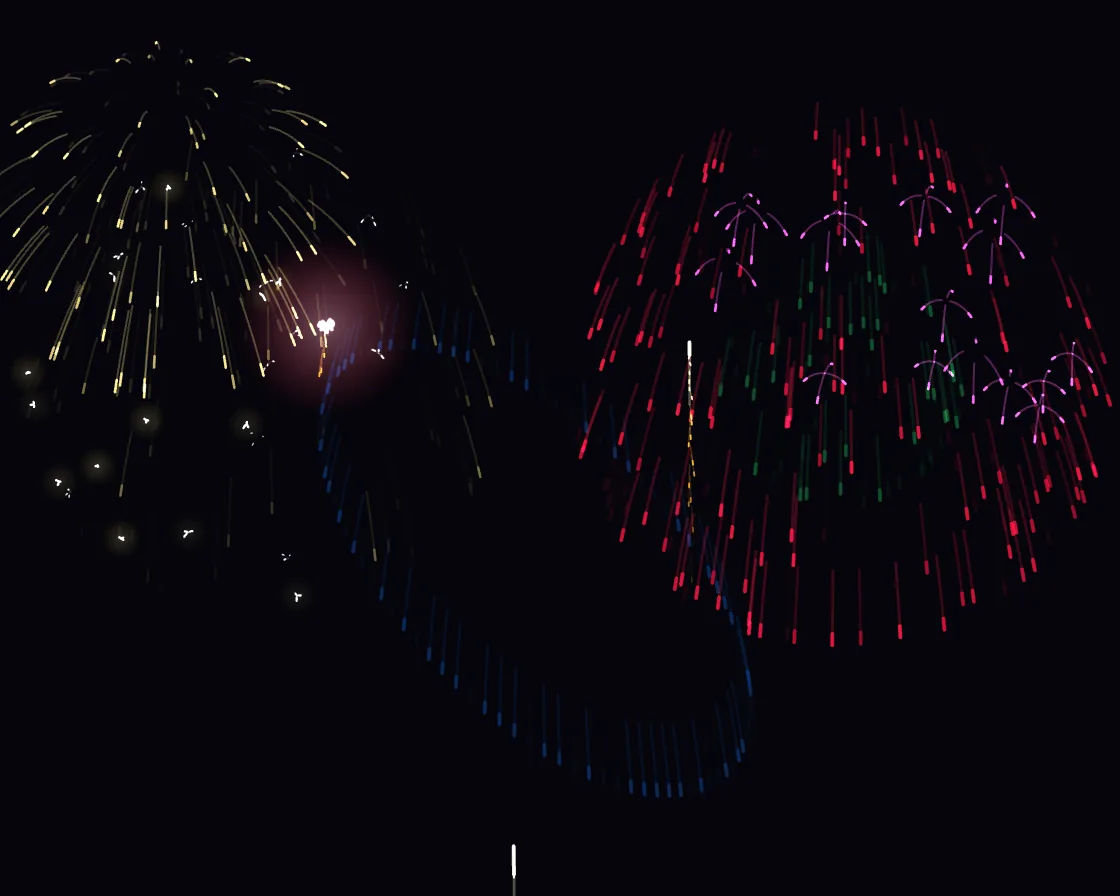
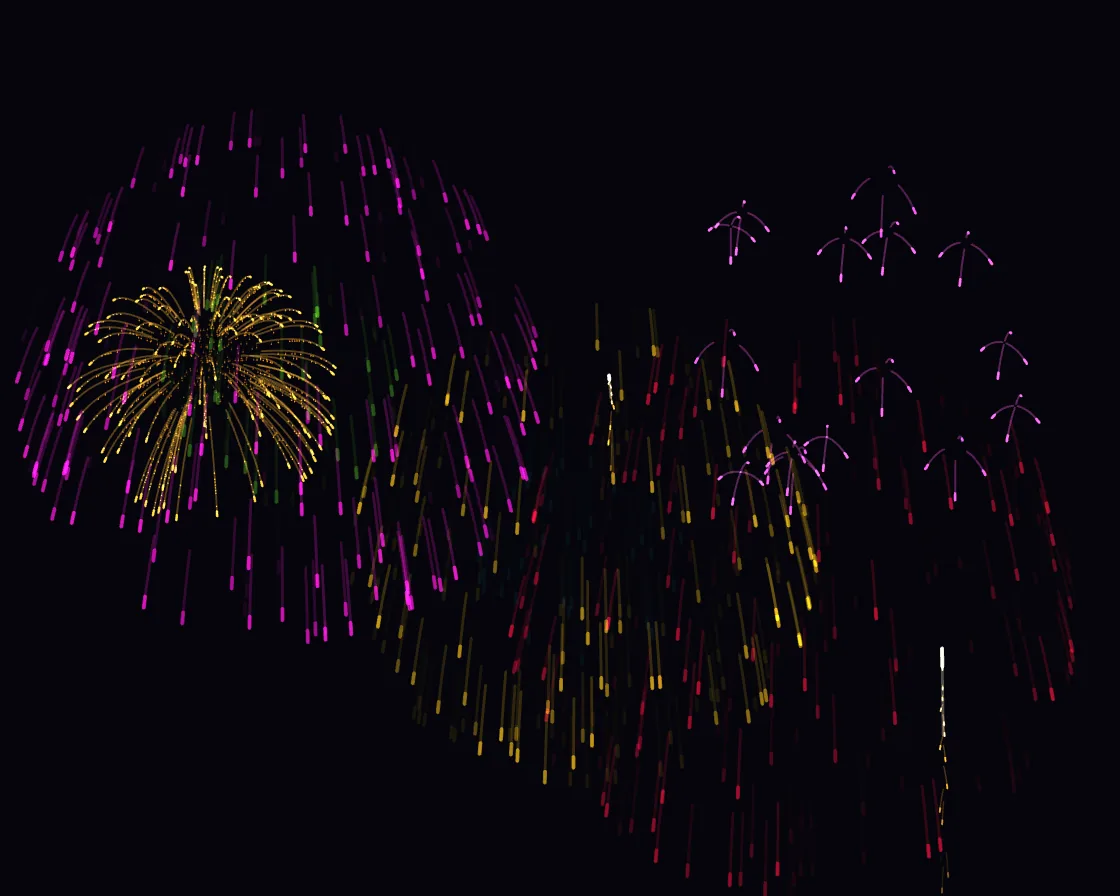
Water ripples slower and calmer (speed param); Fireworks without the ring bursts

diff --git a/anims/simulation/water-ripple.js b/anims/simulation/water-ripple.js
@@ -1,9 +1,10 @@
-// Water ripples: a height field run through the discrete wave equation on the GPU. Each step a cell becomes the average
-// of its four neighbours, times two, minus its own previous height, then loses a little energy; two textures hold
-// "now" and "before" and swap. The surface’s slope bends the view of a tiled floor beneath it (refraction), the
-// curvature focuses light into caustic brightening, and a specular term catches the crests. Move to drag a wake,
-// click for a big drop; with no pointer, rain falls and a ghost finger trails through.
-const PARAMS = { damping: 0.985, refraction: 1, rain: 1 };
+// Water ripples: a height field run through the discrete wave equation on the GPU. Each step a cell moves toward the
+// average of its four neighbours (by less than the fastest stable amount, so the rings travel slowly enough to
+// follow), minus its own previous height, then loses a little energy; two textures hold "now" and "before" and swap.
+// The surface’s slope bends the view of a tiled floor beneath it (refraction), the curvature focuses light into
+// caustic brightening, and a specular term catches the crests. Move to drag a wake, click for a big drop; with no
+// pointer, a drop falls now and then, so each ring can be followed as it spreads.
+const PARAMS = { damping: 0.985, refraction: 1, rain: 1, speed: 0.55 };
 
 export default function (stage) {
   const canvas = document.createElement('canvas');
@@ -16,11 +17,11 @@ export default function (stage) {
   in vec2 p; out vec2 uv; void main() { uv = p * .5 + .5; gl_Position = vec4(p, 0, 1); }`;
   const simFS = `#version 300 es
   precision highp float; in vec2 uv; out vec4 o;
-  uniform sampler2D S; uniform vec2 px; uniform float damp; uniform vec4 drops[8]; uniform float aspect;
+  uniform sampler2D S; uniform vec2 px; uniform float damp, K; uniform vec4 drops[8]; uniform float aspect;
   void main() {
     vec2 c = texture(S, uv).rg;
     float n = texture(S, uv + vec2(px.x, 0)).r + texture(S, uv - vec2(px.x, 0)).r + texture(S, uv + vec2(0, px.y)).r + texture(S, uv - vec2(0, px.y)).r;
-    float h = (n * .5 - c.g) * damp;
+    float h = (2. * c.r + K * (n - 4. * c.r) - c.g) * damp;   // K = .5 is the fastest stable speed
     for (int i = 0; i < 8; i++) {
       vec4 d = drops[i]; if (d.w == 0.) continue;
       vec2 q = (uv - d.xy) * vec2(aspect, 1);
@@ -106,24 +107,21 @@ export default function (stage) {
   const pl = () => { lx = -1; };
   stage.addEventListener('pointermove', pm); stage.addEventListener('pointerdown', pd); stage.addEventListener('pointerleave', pl);
 
-  let cur = 0, raf, frameN = 0, nextRain = 0, gx = -1, gy = -1; const t0 = performance.now();
+  let cur = 0, raf, frameN = 0, nextRain = 0; const t0 = performance.now();
   const dropArr = new Float32Array(32);
   function frame(now) {
     const t = (now - t0) / 1000; frameN++;
-    const idle = now - lastPointer > 2500;
-    if (t > nextRain && PARAMS.rain > 0) {
-      drop(Math.random(), Math.random(), 0.008 + Math.random() * 0.014, 0.4 + Math.random() * 0.9);
-      nextRain = t + (0.15 + Math.random() * 0.6) / PARAMS.rain;
+        if (t > nextRain && PARAMS.rain > 0 && !reduce) {
+      drop(0.12 + Math.random() * 0.76, 0.12 + Math.random() * 0.76, 0.013 + Math.random() * 0.008, 0.6 + Math.random() * 0.5);
+      nextRain = t + (0.9 + Math.random() * 1.6) / PARAMS.rain;
     }
-    if (idle && !reduce) {
-      // ghost finger: a slow figure-of-eight wake
-      const x = 0.5 + 0.33 * Math.sin(t * 0.55), y = 0.5 + 0.28 * Math.sin(t * 1.1 + 0.6);
-      if (gx >= 0) drop(x, y, 0.011, Math.min(0.4, Math.hypot(x - gx, y - gy) * 7));
-      gx = x; gy = y;
-    }
-    const steps = reduce ? (frameN % 10 === 0 ? 1 : 0) : 2;
+    // reduced motion: three drops run on for a moment and then the surface holds still, unless the pointer stirs it
+    if (reduce && frameN === 1) { drop(0.3, 0.6, 0.02, 1); drop(0.68, 0.38, 0.018, 0.9); drop(0.55, 0.72, 0.014, 0.7); }
+    const steps = reduce ? (frameN === 1 ? 70 : now - lastPointer < 3000 ? 1 : 0) : 1;
     gl.useProgram(sim); gl.viewport(0, 0, SW, SH);
-    gl.uniform2f(u(sim, 'px'), 1 / SW, 1 / SH); gl.uniform1f(u(sim, 'damp'), Math.min(0.999, PARAMS.damping)); gl.uniform1f(u(sim, 'aspect'), SW / SH);
+    gl.uniform2f(u(sim, 'px'), 1 / SW, 1 / SH); const K = 0.5 * Math.max(0.1, Math.min(1, PARAMS.speed)) ** 2;   // speed is the fraction of the fastest
+    // (damping is per step; slower rings take more steps per cell, so it is scaled to fade over the same distance)
+    gl.uniform1f(u(sim, 'damp'), Math.min(0.999, PARAMS.damping) ** Math.sqrt(K / 0.5)); gl.uniform1f(u(sim, 'K'), K); gl.uniform1f(u(sim, 'aspect'), SW / SH);
     for (let s = 0; s < steps; s++) {
       dropArr.fill(0);
       if (s === 0) queue.forEach((d, i) => dropArr.set(d, i * 4));

diff --git a/anims/registry-more.js b/anims/registry-more.js
@@ -177,8 +177,8 @@ export const MORE = [
     notes: ['Smoke lines flow past a cylinder, wing or plate and roll into a vortex street; drag the body.', 'A D2Q9 lattice Boltzmann solver: nine populations per cell stream and relax toward equilibrium; MacCormack advection keeps the smoke curls sharp.'],
     params: { reynolds: P(60, 600, 10, 'Reynolds number'), speed: P(0.3, 2, 0.1, 'Speed'), smoke: P(6, 30, 1, 'Smoke lines') } },
   { id: 'fireworks', cat: 'flow', title: 'Fireworks', kind: 'canvas', posterAt: 2500, pointer: true,
-    trick: 'Rocket bursts with gravity, drag and six shell types',
-    notes: ['Rockets burst into peonies, rings, willows, crossettes and glitter; click to launch one there.', 'Each star has velocity, gravity and drag, with a rule set per shell type; stars keep their last few positions, drawn as tapering additive streaks.'],
+    trick: 'Rocket bursts with gravity, drag and five shell types',
+    notes: ['Rockets burst into peonies, willows, crossettes, two-tone shells and glitter; click to launch one there.', 'Each star has velocity, gravity and drag, with a rule set per shell type; stars keep their last few positions, drawn as tapering additive streaks.'],
     params: { rate: P(0, 3, 0.1, 'Launch rate'), gravity: P(0.2, 2, 0.05, 'Gravity'), drag: P(0, 2, 0.05, 'Air drag') } },
   { id: 'bokeh', cat: 'flow', title: 'Bokeh', kind: 'canvas', posterAt: 4000,
     trick: 'Circle of confusion: discs grow with distance from the focal plane',
@@ -296,8 +296,8 @@ export const MORE = [
     params: { wind: P(-1, 1, 0.05, 'Wind'), pixel: P(2, 10, 1, 'Pixel size'), height: P(0.4, 1.6, 0.05, 'Flame height') } },
   { id: 'water-ripple', cat: 'simulation', title: 'Water ripples', kind: 'webgl', posterAt: 4000, pointer: true,
     trick: 'Height-field wave equation on the GPU, refracting a grid beneath',
-    notes: ['Raindrops and the pointer send rings across clear water, bending the grid beneath; click for a big drop.', 'The wave equation on two ping-pong float textures: new height is half the neighbour sum minus the previous height, damped; the slope refracts the grid and curvature adds caustics.'],
-    params: { damping: P(0.95, 0.998, 0.001, 'Damping'), refraction: P(0, 3, 0.05, 'Refraction'), rain: P(0, 4, 0.1, 'Rain') } },
+    notes: ['Now and then a drop falls into clear water and sends a slow ring across it, bending the grid beneath; drag for a wake, click for a big drop.', 'The wave equation on two ping-pong float textures: each cell moves toward its neighbours’ average (slower than the fastest stable rate, so rings can be followed) minus its previous height, damped; the slope refracts the grid and curvature adds caustics.'],
+    params: { damping: P(0.95, 0.998, 0.001, 'Damping'), refraction: P(0, 3, 0.05, 'Refraction'), rain: P(0, 4, 0.1, 'Rain'), speed: P(0.2, 1, 0.05, 'Ripple speed') } },
   { id: 'double-pendulum', cat: 'simulation', title: 'Double pendulums', kind: 'canvas', posterAt: 7000, pointer: true,
     trick: 'Chaos: pendulums a fraction of a milliradian apart diverge completely',
     notes: ['Nine double pendulums swing as one white trace, then suddenly fan out into colours that never agree again. The pointer holds the pivot, so the pendulums swing from your hand.', 'They start a fraction of a milliradian apart and run Runge–Kutta 4 on the full equations; chaos doubles the gap each swing. Additive trails make the shared trace white.'],

diff --git a/anims/flow/fireworks.js b/anims/flow/fireworks.js
@@ -1,8 +1,8 @@
-// Fireworks: rockets climb, slow, and burst at the top of their arc into stars that obey gravity and air drag. Six
-// shell types, each a different rule set: peony (a sphere of stars), ring (a tilted circle, so it reads as an
-// ellipse), willow (heavy drag, long-lived gold that droops and leaves trails), crossette (a few stars that each split
-// into four), crackle (glitter that pops into tiny white flashes) and two-tone (an inner core in a second colour).
-// Each star keeps its last few positions and is drawn as a tapering additive streak. Click to launch.
+// Fireworks: rockets climb, slow, and burst at the top of their arc into stars that obey gravity and air drag. Five
+// shell types, each a different rule set: peony (a sphere of stars), willow (heavy drag, long-lived gold that droops
+// and leaves trails), crossette (a few stars that each split into four), crackle (glitter that pops into tiny white
+// flashes) and two-tone (an inner core in a second colour). Each star keeps its last few positions and is drawn as a
+// tapering additive streak. Click to launch.
 const PARAMS = { rate: 1, gravity: 1, drag: 1 };
 
 export default function (stage) {
@@ -27,18 +27,11 @@ export default function (stage) {
   const sphere = n => { const out = []; for (let i = 0; i < n; i++) { const u = Math.random() * 2 - 1, a = Math.random() * 6.2832, r = Math.sqrt(1 - u * u); out.push([r * Math.cos(a), r * Math.sin(a) * 0.95 + u * 0.05, u]); } return out; };
   const burst = (x, y) => {
     const s = Math.min(W, H), sp = s * (0.5 + Math.random() * 0.15), hue = HUES[Math.random() * HUES.length | 0];
-    const type = ['peony', 'ring', 'willow', 'crossette', 'crackle', 'twotone'][Math.random() * 6 | 0];
+    const type = ['peony', 'willow', 'crossette', 'crackle', 'twotone'][Math.random() * 5 | 0];
     flashes.push({ x, y, age: 0, r: s * 0.1, hue: type === 'willow' ? 40 : hue });
     if (type === 'peony' || type === 'twotone') {
       for (const [a, b] of sphere(170)) spark(x, y, a * sp, b * sp, { hue, life: 1.5 + Math.random() * 0.5 });
       if (type === 'twotone') { const h2 = (hue + 150) % 360; for (const [a, b] of sphere(60)) spark(x, y, a * sp * 0.45, b * sp * 0.45, { hue: h2, light: 70, life: 1.3 }); }
-    } else if (type === 'ring') {
-      const tilt = Math.random() * 3.14, squash = 0.25 + Math.random() * 0.6, n = 90;
-      for (let i = 0; i < n; i++) {
-        const a = i / n * 6.2832, cx = Math.cos(a), cy = Math.sin(a) * squash, c = Math.cos(tilt), sn = Math.sin(tilt);
-        spark(x, y, (cx * c - cy * sn) * sp, (cx * sn + cy * c) * sp, { hue, light: 66, life: 1.5 });
-      }
-      for (const [a, b] of sphere(24)) spark(x, y, a * sp * 0.25, b * sp * 0.25, { hue: 50, sat: 30, light: 85, life: 0.9 });
     } else if (type === 'willow') {
       for (const [a, b] of sphere(110)) spark(x, y, a * sp * 0.85, b * sp * 0.85, { kind: 'willow', hue: 38, sat: 85, light: 58, life: 3.2 + Math.random(), drag: 0.955, g: 0.5, w: 1.3, tl: 30 });
     } else if (type === 'crossette') {

diff --git a/anims/i18n-fr.js b/anims/i18n-fr.js
@@ -274,9 +274,9 @@ export const FR = {
  },
  "fireworks": {
   "title": "Feu d’artifice",
-  "trick": "Explosions de fusées avec gravité, traînée et six types de bombes",
+  "trick": "Explosions de fusées avec gravité, traînée et cinq types de bombes",
   "notes": [
-   "Les fusées éclatent en pivoines, anneaux, saules, crossettes et paillettes ; cliquez pour en lancer une à cet endroit.",
+   "Les fusées éclatent en pivoines, saules, crossettes, bombes bicolores et paillettes ; cliquez pour en lancer une à cet endroit.",
    "Chaque étoile a une vitesse, une gravité et une traînée, avec des règles propres à chaque type de bombe ; les étoiles gardent leurs dernières positions, dessinées en traînées additives qui s’effilent."
   ]
  },
@@ -996,8 +996,8 @@ export const FR = {
   "title": "Ondes sur l’eau",
   "trick": "Équation d’onde en champ de hauteurs sur GPU, qui réfracte une grille",
   "notes": [
-   "Les gouttes de pluie et le pointeur envoient des anneaux sur l’eau claire, déformant la grille du fond ; cliquez pour une grosse goutte.",
-   "L’équation d’onde sur deux textures float en ping-pong : la nouvelle hauteur est la moitié de la somme des voisins moins la hauteur précédente, amortie ; la pente réfracte la grille et la courbure ajoute des caustiques."
+   "De temps en temps une goutte tombe dans l’eau claire et envoie un anneau lent qui courbe la grille en dessous ; faites glisser pour un sillage, cliquez pour une grosse goutte.",
+   "L’équation des ondes sur deux textures flottantes en ping-pong : chaque cellule se rapproche de la moyenne de ses voisines (plus lentement que le maximum stable, pour qu’on puisse suivre les anneaux) moins sa hauteur précédente, amortie ; la pente réfracte la grille et la courbure ajoute des caustiques."
   ]
  },
  "double-pendulum": {
@@ -1804,6 +1804,7 @@ export const FR = {
 
 // slider labels, keyed by the English label in anims/registry.js
 export const LABELS = {
+ "Ripple speed": "Vitesse des ondes",
  "Magnet": "Aimant",
  "On": "Allumé",
  "Off": "Éteint",

diff --git a/anims/i18n-es.js b/anims/i18n-es.js
@@ -274,9 +274,9 @@ export const ES = {
  },
  "fireworks": {
   "title": "Fuegos artificiales",
-  "trick": "Estallidos de cohetes con gravedad, resistencia y seis tipos de carcasa",
+  "trick": "Estallidos de cohetes con gravedad, resistencia y cinco tipos de carcasa",
   "notes": [
-   "Los cohetes estallan en peonías, anillos, sauces, crossettes y purpurina; haz clic para lanzar uno ahí.",
+   "Los cohetes estallan en peonías, sauces, crossettes, carcasas bicolores y purpurina; haz clic para lanzar uno allí.",
    "Cada estrella tiene velocidad, gravedad y resistencia, con un conjunto de reglas por tipo de carcasa; las estrellas guardan sus últimas posiciones, dibujadas como estelas aditivas que se afinan."
   ]
  },
@@ -996,8 +996,8 @@ export const ES = {
   "title": "Ondas en el agua",
   "trick": "Ecuación de onda de campo de alturas en la GPU, que refracta una cuadrícula",
   "notes": [
-   "Las gotas de lluvia y el puntero envían anillos por el agua clara y curvan la cuadrícula del fondo; haz clic para una gota grande.",
-   "La ecuación de onda sobre dos texturas float en ping-pong: la nueva altura es la mitad de la suma de las vecinas menos la altura anterior, amortiguada; la pendiente refracta la cuadrícula y la curvatura añade cáusticas."
+   "De vez en cuando cae una gota en el agua clara y envía un anillo lento que dobla la retícula de debajo; arrastra para dejar una estela y haz clic para una gota grande.",
+   "La ecuación de ondas en dos texturas flotantes que se alternan: cada celda se acerca a la media de sus vecinas (más despacio que el máximo estable, para poder seguir los anillos) menos su altura anterior, amortiguada; la pendiente refracta la retícula y la curvatura añade cáusticas."
   ]
  },
  "double-pendulum": {
@@ -1804,6 +1804,7 @@ export const ES = {
 
 // slider labels, keyed by the English label in anims/registry.js
 export const LABELS = {
+ "Ripple speed": "Velocidad de las ondas",
  "Magnet": "Imán",
  "On": "Encendido",
  "Off": "Apagado",

diff --git a/anims/i18n-zh.js b/anims/i18n-zh.js
@@ -124,8 +124,8 @@ export const ZH = {
   "title": "水波",
   "trick": "GPU 上的高度场波动方程，折射水下的网格",
   "notes": [
-   "雨滴和指针在清水上激起一圈圈涟漪，使下方网格弯曲；点击可落下大水滴。",
-   "在两张交替使用的浮点纹理上解波动方程：新高度等于邻居和的一半减去上一帧高度，再乘阻尼；坡度折射网格，曲率产生焦散。"
+   "不时有一滴水落入清水，激起一圈缓慢扩散的波纹，折弯下方的网格；拖动留下尾迹，点击投下一大滴。",
+   "两张来回交换的浮点纹理上的波动方程：每个格点向邻居的平均值靠拢（比最快的稳定速度慢，波纹看得清），减去上一时刻的高度并衰减；斜率折射网格，曲率形成焦散。"
   ]
  },
  "double-pendulum": {
@@ -162,9 +162,9 @@ export const ZH = {
  },
  "fireworks": {
   "title": "烟花",
-  "trick": "火箭爆裂，带重力、空气阻力和六种礼花弹",
+  "trick": "火箭爆裂，带重力、空气阻力和五种礼花弹",
   "notes": [
-   "火箭炸开成牡丹、圆环、垂柳、分裂星和闪光；点击即在该处发射一枚。",
+   "火箭在空中炸开，化作牡丹、垂柳、十字分裂、双色礼花和闪烁的碎光；点击即可在该处发射一枚。",
    "每颗星有速度、重力和阻力，每种烟花有各自的规则；星体保留最近几帧的位置，画成逐渐变细的加色拖尾。"
   ]
  },
@@ -1804,6 +1804,7 @@ export const ZH = {
 
 // slider labels, keyed by the English label in anims/registry.js
 export const LABELS = {
+ "Ripple speed": "波纹速度",
  "Magnet": "磁铁",
  "On": "开",
  "Off": "关",
